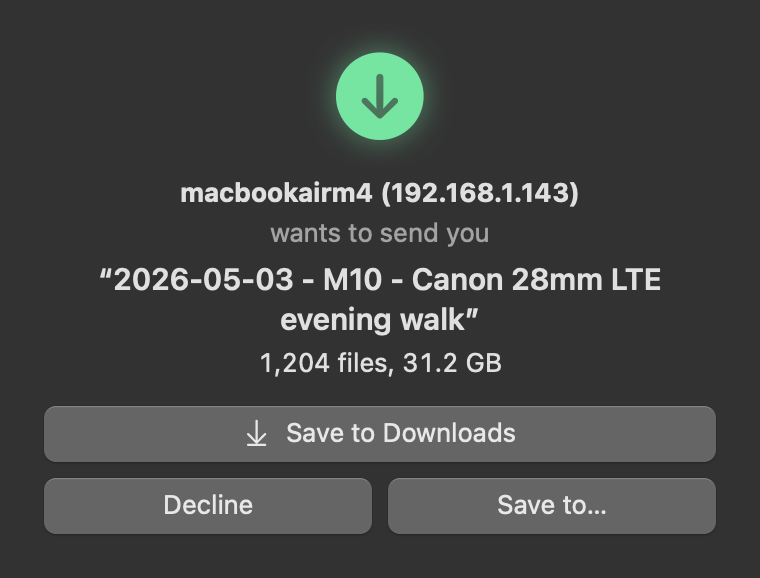
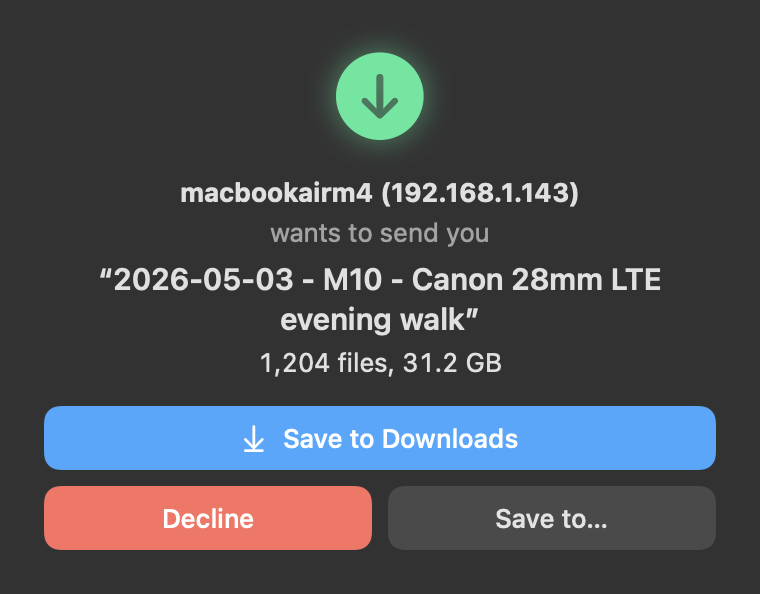
Accept panel: blue to take it, red to refuse

diff --git a/Sources/NimbusDrop/OfferPanel.swift b/Sources/NimbusDrop/OfferPanel.swift
@@ -96,21 +96,38 @@ private struct OfferView: View {
                 Text(detail).font(.body.monospacedDigit())
             }
             // One click for the usual case; the folder chooser for when it should go elsewhere.
+            // Coloured by what they do: blue to take it, red to refuse.
             VStack(spacing: 8) {
-                Button { answer(.downloads) } label: {
-                    Label("Save to Downloads", systemImage: "arrow.down.to.line").frame(maxWidth: .infinity)
-                }
-                .keyboardShortcut(.defaultAction)
-                .buttonStyle(.borderedProminent).tint(Palette.receive)
+                Button { answer(.downloads) } label: { Label("Save to Downloads", systemImage: "arrow.down.to.line") }
+                    .keyboardShortcut(.defaultAction)
+                    .buttonStyle(AnswerButton(fill: Palette.send, text: .white))
                 HStack(spacing: 8) {
-                    Button { answer(.decline) } label: { Text("Decline").frame(maxWidth: .infinity) }
+                    Button("Decline") { answer(.decline) }
                         .keyboardShortcut(.cancelAction)
-                    Button { answer(.choose) } label: { Text("Save to…").frame(maxWidth: .infinity) }
+                        .buttonStyle(AnswerButton(fill: Palette.failure, text: .white))
+                    Button("Save to…") { answer(.choose) }
+                        .buttonStyle(AnswerButton(fill: Color.primary.opacity(0.14), text: .primary))
                 }
             }
-            .controlSize(.large)
         }
         .padding(22)
         .frame(width: 380)
+    }
+}
+
+/// The panel's buttons, drawn here rather than left to the system so that they are the app's
+/// colours and look the same whether or not the panel is the key window.
+private struct AnswerButton: ButtonStyle {
+    let fill: Color
+    let text: Color
+
+    func makeBody(configuration: Configuration) -> some View {
+        configuration.label
+            .font(.body.weight(.medium))
+            .foregroundStyle(text)
+            .frame(maxWidth: .infinity)
+            .padding(.vertical, 8)
+            .background(RoundedRectangle(cornerRadius: 8).fill(fill).opacity(configuration.isPressed ? 0.7 : 1))
+            .contentShape(RoundedRectangle(cornerRadius: 8))
     }
 }
